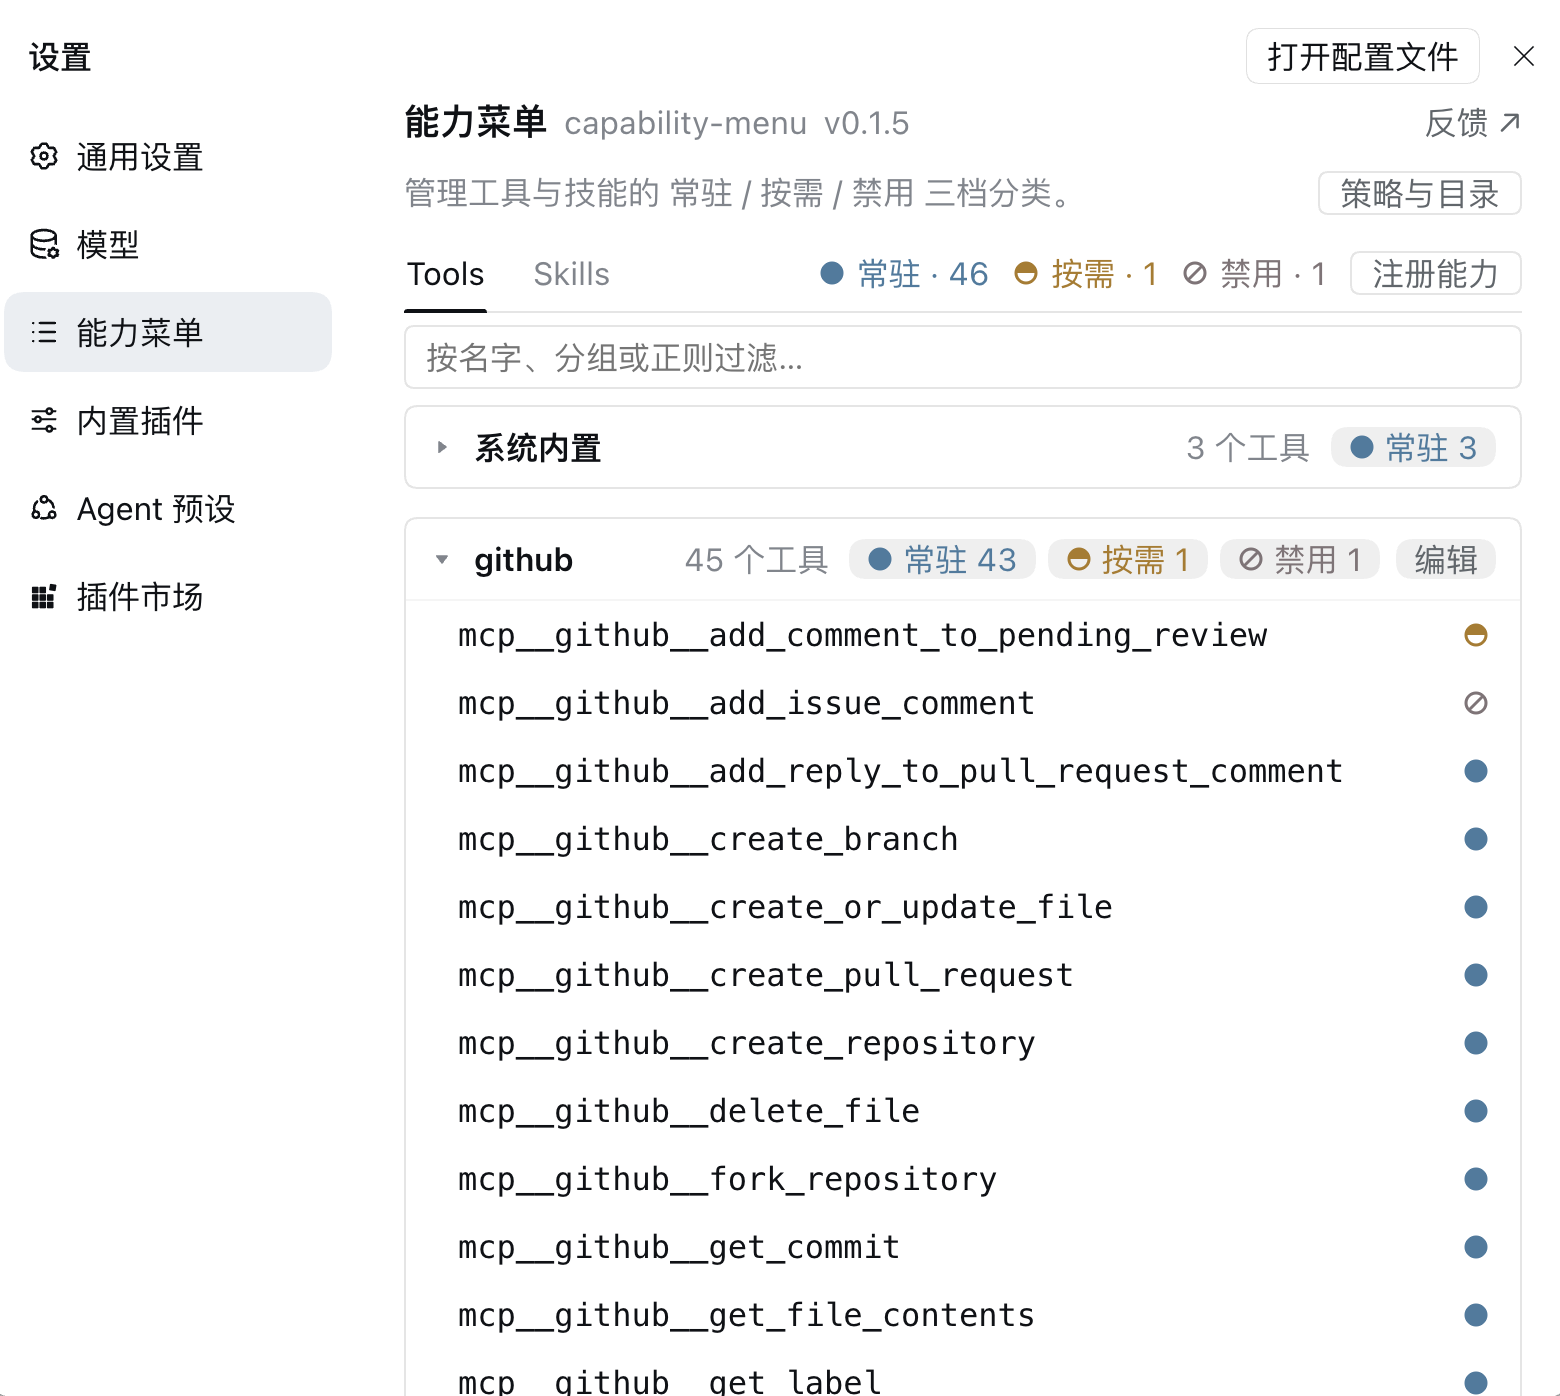
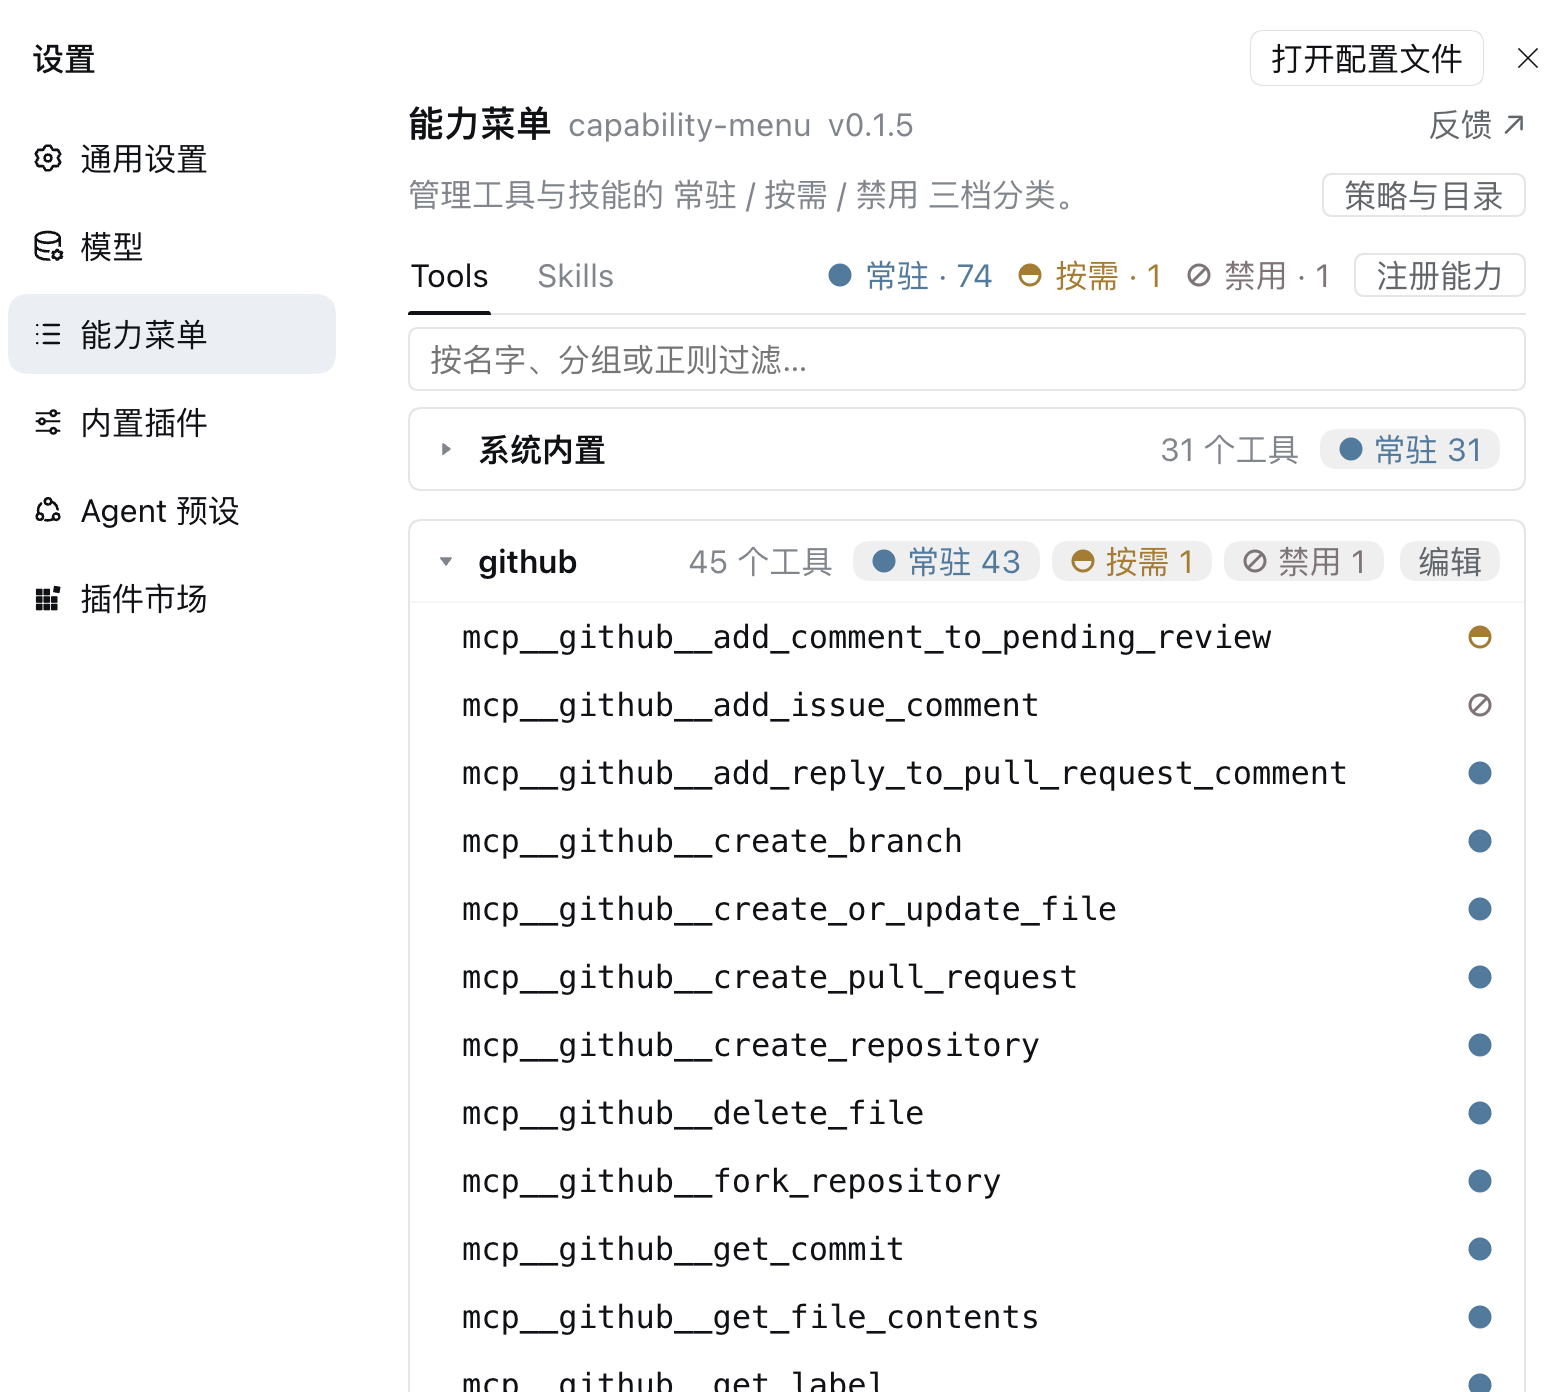
fix: support current agent preset API

diff --git a/src/registry.ts b/src/registry.ts
@@ -102,6 +102,43 @@ export interface CapabilityRecord {
   readonly summary: string
 }
 
+/** Agent-preset APIs across DSH releases. */
+interface AgentPresetScopes {
+  list(): Promise<Array<{ id: string; broken?: string }>>
+  /** DSH 0.1.x standing-scope API. */
+  standingKeyFor?(id?: string): Promise<ScopeKey>
+  /** DSH 0.2.x lease API; the scope must stay retained during enumeration. */
+  acquireScope?(id?: string): Promise<{ key: ScopeKey; [key: symbol]: unknown }>
+}
+
+const ASYNC_DISPOSE =
+  (Symbol as unknown as { asyncDispose?: symbol }).asyncDispose ?? Symbol.for('nodejs.asyncDispose')
+
+/**
+ * Read one preset's tool/skill view across both Agent preset APIs.
+ * Newer DSH versions return a lease so hot-replaced preset generations cannot
+ * be disposed while the registry is reading their scoped capabilities.
+ */
+async function withAgentPresetScope<T>(
+  agentPresets: AgentPresetScopes,
+  id: string,
+  read: (scope: ScopeKey) => Promise<T> | T,
+): Promise<T> {
+  if (agentPresets.acquireScope !== undefined) {
+    const lease = await agentPresets.acquireScope(id)
+    try {
+      return await read(lease.key)
+    } finally {
+      const dispose = lease[ASYNC_DISPOSE]
+      if (typeof dispose === 'function') await (dispose as () => Promise<void>).call(lease)
+    }
+  }
+  if (agentPresets.standingKeyFor !== undefined) {
+    return await read(await agentPresets.standingKeyFor(id))
+  }
+  throw new Error('agentPresets exposes neither acquireScope() nor standingKeyFor()')
+}
+
 /** Lightweight list-mode projection of one capability (no full schema). */
 export interface CapabilitySummary {
   readonly id: string
@@ -478,9 +515,7 @@ export function apply(ctx: Context, config: Config = {}): void {
     const nextToolRecords = new Map<string, CapabilityRecord>()
     for (const schema of ctx.tools.schemas()) indexToolSchema(nextToolRecords, schema)
 
-    const agentPresets = (ctx.get as (key: string) => unknown)('agentPresets') as
-      | { list(): Promise<Array<{ id: string; broken?: string }>>; standingKeyFor(id?: string): Promise<ScopeKey> }
-      | undefined
+    const agentPresets = (ctx.get as (key: string) => unknown)('agentPresets') as AgentPresetScopes | undefined
     if (agentPresets !== undefined) {
       let presets: Array<{ id: string; broken?: string }> = []
       try {
@@ -491,8 +526,9 @@ export function apply(ctx: Context, config: Config = {}): void {
       for (const preset of presets) {
         if (preset.broken !== undefined) continue
         try {
-          const scope = await agentPresets.standingKeyFor(preset.id)
-          for (const schema of ctx.tools.schemas(scope)) indexToolSchema(nextToolRecords, schema)
+          await withAgentPresetScope(agentPresets, preset.id, scope => {
+            for (const schema of ctx.tools.schemas(scope)) indexToolSchema(nextToolRecords, schema)
+          })
         } catch (error) {
           ctx.logger.warn(`meta-registry: preset "${preset.id}" tool scope unavailable: ${String(error)}`)
         }
@@ -578,9 +614,7 @@ export function apply(ctx: Context, config: Config = {}): void {
     // Preset layers: agent presets mount skill providers into their own scope
     // (web surface disables the host-plane rows by design). `agentPresets` is
     // optional — headless bundles without it index the global layer only.
-    const agentPresets = (ctx.get as (key: string) => unknown)('agentPresets') as
-      | { list(): Promise<Array<{ id: string; broken?: string }>>; standingKeyFor(id?: string): Promise<ScopeKey> }
-      | undefined
+    const agentPresets = (ctx.get as (key: string) => unknown)('agentPresets') as AgentPresetScopes | undefined
     if (agentPresets !== undefined) {
       let presets: Array<{ id: string; broken?: string }> = []
       try {
@@ -591,8 +625,8 @@ export function apply(ctx: Context, config: Config = {}): void {
       for (const preset of presets) {
         if (preset.broken !== undefined) continue
         try {
-          const scope = await agentPresets.standingKeyFor(preset.id)
-          await collectScoped(`preset "${preset.id}"`, scope, preset.id)
+          await withAgentPresetScope(agentPresets, preset.id, scope =>
+            collectScoped(`preset "${preset.id}"`, scope, preset.id))
         } catch (error) {
           ctx.logger.warn(`meta-registry: preset "${preset.id}" skill scope unavailable: ${String(error)}`)
         }
@@ -772,6 +806,19 @@ export function apply(ctx: Context, config: Config = {}): void {
     if (!stopped && !rebuilding) void runRebuild()
   }
 
+  // The registry is also used in bundles without agent presets, so this is
+  // intentionally an optional dependency. In the web host, however, the
+  // capability plugin can mount before the preset service. Its first pass then
+  // sees only global tools (which may be non-empty) and the later preset mounts
+  // do not necessarily emit tools/change from this scope. Re-run the complete
+  // inventory when agentPresets becomes available or is replaced; rebuildTools
+  // will enumerate every healthy standing preset scope, independent of which
+  // preset is the default for new sessions.
+  ctx.inject(['agentPresets'], () => {
+    eventSeq++
+    schedule()
+  })
+
   /**
    * Refresh the whole catalog, resolving once the rebuild chain covering this
    * call has converged (including any coalesced follow-up).
@@ -796,11 +843,9 @@ export function apply(ctx: Context, config: Config = {}): void {
     eventSeq++
     schedule()
   }))
-  // Index the global tool view eagerly (the synchronous part of
-  // `rebuildTools`); preset standing scopes and skills are enumerated by the
-  // first explicit `refresh()` (policy mounts it before the surface is used)
-  // or a change event, so an eager load never snapshots — and caches inside the
-  // tool/skill registries — an incomplete catalog.
+  // Index the global tool view eagerly. The first explicit refresh enumerates
+  // preset standing scopes; the optional-service injection above also triggers
+  // a full pass if agentPresets is mounted after this plugin.
   void rebuildTools()
   void refreshSkills()
   ctx.effect(() => () => {

diff --git a/lib/registry.js b/lib/registry.js
@@ -24,6 +24,29 @@ export { BUILT_IN_SERVER, MCP_ID_PREFIX };
  * it from a same-named tool.
  */
 export const CATALOG_EXCLUDED_TOOLS = new Set(['meta_search', 'meta_invoke', 'run_code']);
+const ASYNC_DISPOSE = Symbol.asyncDispose ?? Symbol.for('nodejs.asyncDispose');
+/**
+ * Read one preset's tool/skill view across both Agent preset APIs.
+ * Newer DSH versions return a lease so hot-replaced preset generations cannot
+ * be disposed while the registry is reading their scoped capabilities.
+ */
+async function withAgentPresetScope(agentPresets, id, read) {
+    if (agentPresets.acquireScope !== undefined) {
+        const lease = await agentPresets.acquireScope(id);
+        try {
+            return await read(lease.key);
+        }
+        finally {
+            const dispose = lease[ASYNC_DISPOSE];
+            if (typeof dispose === 'function')
+                await dispose.call(lease);
+        }
+    }
+    if (agentPresets.standingKeyFor !== undefined) {
+        return await read(await agentPresets.standingKeyFor(id));
+    }
+    throw new Error('agentPresets exposes neither acquireScope() nor standingKeyFor()');
+}
 /** Validate and default the registry configuration. */
 export const Config = z.object({
     summaryMaxChars: z.number().default(160),
@@ -222,9 +245,10 @@ export function apply(ctx, config = {}) {
                 if (preset.broken !== undefined)
                     continue;
                 try {
-                    const scope = await agentPresets.standingKeyFor(preset.id);
-                    for (const schema of ctx.tools.schemas(scope))
-                        indexToolSchema(nextToolRecords, schema);
+                    await withAgentPresetScope(agentPresets, preset.id, scope => {
+                        for (const schema of ctx.tools.schemas(scope))
+                            indexToolSchema(nextToolRecords, schema);
+                    });
                 }
                 catch (error) {
                     ctx.logger.warn(`meta-registry: preset "${preset.id}" tool scope unavailable: ${String(error)}`);
@@ -324,8 +348,7 @@ export function apply(ctx, config = {}) {
                 if (preset.broken !== undefined)
                     continue;
                 try {
-                    const scope = await agentPresets.standingKeyFor(preset.id);
-                    await collectScoped(`preset "${preset.id}"`, scope, preset.id);
+                    await withAgentPresetScope(agentPresets, preset.id, scope => collectScoped(`preset "${preset.id}"`, scope, preset.id));
                 }
                 catch (error) {
                     ctx.logger.warn(`meta-registry: preset "${preset.id}" skill scope unavailable: ${String(error)}`);
@@ -513,6 +536,18 @@ export function apply(ctx, config = {}) {
         if (!stopped && !rebuilding)
             void runRebuild();
     };
+    // The registry is also used in bundles without agent presets, so this is
+    // intentionally an optional dependency. In the web host, however, the
+    // capability plugin can mount before the preset service. Its first pass then
+    // sees only global tools (which may be non-empty) and the later preset mounts
+    // do not necessarily emit tools/change from this scope. Re-run the complete
+    // inventory when agentPresets becomes available or is replaced; rebuildTools
+    // will enumerate every healthy standing preset scope, independent of which
+    // preset is the default for new sessions.
+    ctx.inject(['agentPresets'], () => {
+        eventSeq++;
+        schedule();
+    });
     /**
      * Refresh the whole catalog, resolving once the rebuild chain covering this
      * call has converged (including any coalesced follow-up).
@@ -538,11 +573,9 @@ export function apply(ctx, config = {}) {
         eventSeq++;
         schedule();
     }));
-    // Index the global tool view eagerly (the synchronous part of
-    // `rebuildTools`); preset standing scopes and skills are enumerated by the
-    // first explicit `refresh()` (policy mounts it before the surface is used)
-    // or a change event, so an eager load never snapshots — and caches inside the
-    // tool/skill registries — an incomplete catalog.
+    // Index the global tool view eagerly. The first explicit refresh enumerates
+    // preset standing scopes; the optional-service injection above also triggers
+    // a full pass if agentPresets is mounted after this plugin.
     void rebuildTools();
     void refreshSkills();
     ctx.effect(() => () => {

diff --git a/README.md b/README.md
@@ -22,9 +22,18 @@
 ## 目录
 
 - [能力总览](#能力总览)
-- [快速安装](#快速安装)
+  - [能力模型](#能力模型)
+  - [能力菜单](#能力菜单)
+- [安装与卸载](#安装与卸载)
+  - [从 npm 安装（推荐）](#从-npm-安装推荐)
+  - [从源码安装](#从源码安装)
+  - [验证安装](#验证安装)
+  - [卸载](#卸载)
 - [暴露策略](#暴露策略)
-- [配置文件](#配置文件)
+  - [Tools 和 Skills 三档暴露与执行对照](#tools-和-skills-三档暴露与执行对照)
+- [配置](#配置)
+  - [全部配置项](#全部配置项)
+  - [按需能力目录（`catalogfile`）](#按需能力目录catalogfile)
 
 ---
 
@@ -56,11 +65,6 @@ Capability 是本插件引入的上位概念：Tool / Skill 是不同类型的 c
   <img src="assets/screenshot-tools.png" alt="Tools 页" width="48%"/>
   <img src="assets/screenshot-skills.png" alt="Skills 页" width="48%"/>
 </p>
-<p align="center">
-  <img src="assets/screenshot-policy.png" alt="策略与目录 · 三档策略配置" width="48%"/>
-  <img src="assets/screenshot-catalog.png" alt="策略与目录 · 按需能力目录" width="48%"/>
-</p>
-
 安装后，在「设置」导航中选择「能力菜单」，即可管理 Tools 和 Skills。
 
 | 操作 | 用法 |
@@ -76,7 +80,7 @@ Capability 是本插件引入的上位概念：Tool / Skill 是不同类型的 c
 
 GitHub Skill 支持默认分支根目录链接（需含 `SKILL.md`）、指定分支根目录 `https://github.com/{owner}/{repo}/tree/{branch}`，以及指定分支下的技能目录 `https://github.com/{owner}/{repo}/tree/{branch}/{skill-directory}`。也可输入本机目录。仅支持公开仓库；导入需要运行 dsh 的机器安装 Git，插件会校验 `SKILL.md` 并只复制所选目录。
 
-## 快速安装
+## 安装与卸载
 
 前置：[Node.js](https://nodejs.org/en/download) 与 [dsh CLI](https://github.com/deepseek-ai/deepseek-harness)（`dsh plugin` 内部会转发给 pnpm，不用单独装 pnpm）。
 
@@ -123,7 +127,7 @@ dsh plugin --profile web remove @daweifu/capability-menu
 
 所有能力（Tool 与 Skill）按 **暴露程度**（模型在上下文中看到什么）与 **执行方式** 分为三档：
 
-### Tools / Skills 三档暴露与执行对照
+### Tools 和 Skills 三档暴露与执行对照
 
 | 档位 | 能力 | 模型能看到什么 | 如何找到 | 如何使用 |
 | --- | --- | --- | --- | --- |
@@ -139,7 +143,7 @@ dsh plugin --profile web remove @daweifu/capability-menu
 > - `meta_search` 和 `meta_invoke` 固定常驻且不可禁用。`run_code` 是 Code Mode 保留工具，不进目录或菜单，也无需配置档位。
 > - **高频核心工具建议设为常驻**：按需内置工具需经 `meta_search` → `meta_invoke` 两步调用。
 
-## 配置文件
+## 配置
 
 规则写在本插件 `capability-menu-policy` entry 的 `config` 下：
 

diff --git a/README.en.md b/README.en.md
@@ -22,9 +22,18 @@
 ## Table of Contents
 
 - [Capability Overview](#capability-overview)
-- [Quick Install](#quick-install)
+  - [Capability Model](#capability-model)
+  - [Capability Management](#capability-management)
+- [Installation and Uninstallation](#installation-and-uninstallation)
+  - [Install from npm (recommended)](#install-from-npm-recommended)
+  - [Install from source](#install-from-source)
+  - [Verify the install](#verify-the-install)
+  - [Uninstall](#uninstall)
 - [Exposure Policy](#exposure-policy)
+  - [Tools and Skills three-tier exposure and execution](#tools-and-skills-three-tier-exposure-and-execution)
 - [Configuration](#configuration)
+  - [All configuration options](#all-configuration-options)
+  - [On-demand capability catalog (`catalogFile`)](#on-demand-capability-catalog-catalogfile)
 
 ---
 
@@ -56,11 +65,6 @@ The model gets two meta tools:
   <img src="assets/screenshot-tools.png" alt="Tools tab" width="48%"/>
   <img src="assets/screenshot-skills.png" alt="Skills tab" width="48%"/>
 </p>
-<p align="center">
-  <img src="assets/screenshot-policy.png" alt="Policy &amp; catalog · Policy (effective)" width="48%"/>
-  <img src="assets/screenshot-catalog.png" alt="Policy &amp; catalog · On-demand catalog" width="48%"/>
-</p>
-
 After installation, open **Settings** and select **Capability Management** from the settings navigation to manage Tools and Skills.
 
 | Task | How to do it |
@@ -76,7 +80,7 @@ Registering an MCP server writes its patch configuration; a missing file or pare
 
 GitHub Skill imports accept a default-branch root URL (the root must contain `SKILL.md`), a specific branch root `https://github.com/{owner}/{repo}/tree/{branch}`, or a Skill subdirectory `https://github.com/{owner}/{repo}/tree/{branch}/{skill-directory}`. Local paths are also supported. Only public repositories are supported; Git must be installed on the machine running dsh. The plugin validates `SKILL.md` and copies only the selected directory.
 
-## Quick Install
+## Installation and Uninstallation
 
 Prerequisites: [Node.js](https://nodejs.org/en/download) and the [dsh CLI](https://github.com/deepseek-ai/deepseek-harness) (`dsh plugin` forwards to pnpm internally, so pnpm needs no separate install).
 
@@ -123,7 +127,7 @@ dsh plugin --profile web remove @daweifu/capability-menu
 
 All capabilities (Tool and Skill) fall into three tiers by their **exposure level** (what the model sees in the context) and their **execution mode**:
 
-### Tools / Skills three-tier exposure and execution
+### Tools and Skills three-tier exposure and execution
 
 | tier | capability | what the model sees | how to find it | how to use it |
 | --- | --- | --- | --- | --- |
